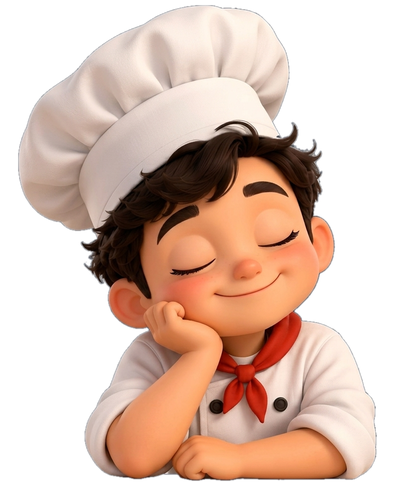
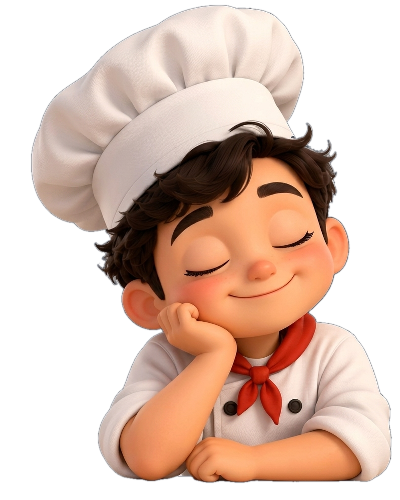
fix: make character animation fluid and smooth with 1:1 silhouette registration and damped parallax

Changed region(s): [[0.03, 0.0, 0.99, 0.99], [0.66, 0.42, 0.69, 0.45]]

diff --git a/apps/web/components/ui/peeking-chef.tsx b/apps/web/components/ui/peeking-chef.tsx
@@ -8,48 +8,53 @@ interface PeekingChefProps {
 
 export function PeekingChef({ isPasswordFocused = false }: PeekingChefProps) {
   const containerRef = React.useRef<HTMLDivElement>(null);
-  const [headTilt, setHeadTilt] = React.useState({ rotateX: 0, rotateY: 0, translateX: 0, translateY: 0 });
+  const [offset, setOffset] = React.useState({ x: 0, y: 0 });
 
-  // Smooth mouse movement tracking using requestAnimationFrame
+  // Smooth damped parallax cursor tracking (lerp physics)
   React.useEffect(() => {
-    if (isPasswordFocused) {
-      setHeadTilt({ rotateX: 0, rotateY: 0, translateX: 0, translateY: 0 });
-      return;
-    }
-
-    let rafId: number | null = null;
+    let targetX = 0;
+    let targetY = 0;
+    let currentX = 0;
+    let currentY = 0;
+    let animFrameId: number;
 
     const handleMouseMove = (e: MouseEvent) => {
-      if (rafId) cancelAnimationFrame(rafId);
+      if (isPasswordFocused) return;
+      if (!containerRef.current) return;
+      
+      const rect = containerRef.current.getBoundingClientRect();
+      const chefCenterX = rect.left + rect.width * 0.5;
+      const chefCenterY = rect.top + rect.height * 0.45;
 
-      rafId = requestAnimationFrame(() => {
-        if (!containerRef.current) return;
-        const rect = containerRef.current.getBoundingClientRect();
-        
-        // Approximate face center on screen
-        const faceX = rect.left + rect.width * 0.5;
-        const faceY = rect.top + rect.height * 0.45;
+      const dx = e.clientX - chefCenterX;
+      const dy = e.clientY - chefCenterY;
+      const dist = Math.sqrt(dx * dx + dy * dy) || 1;
 
-        const dx = e.clientX - faceX;
-        const dy = e.clientY - faceY;
-        const dist = Math.sqrt(dx * dx + dy * dy) || 1;
+      // Gentle, subtle organic parallax travel (max 4px)
+      const maxTravel = 4.0;
+      targetX = (dx / dist) * Math.min(maxTravel, dist * 0.015);
+      targetY = (dy / dist) * Math.min(maxTravel * 0.75, dist * 0.012);
+    };
 
-        // Subtle, natural 3D head movement following cursor
-        const maxTilt = 4.0;
-        const tiltX = Math.max(-maxTilt, Math.min(maxTilt, -(dy / window.innerHeight) * 8));
-        const tiltY = Math.max(-maxTilt * 1.3, Math.min(maxTilt * 1.3, (dx / window.innerWidth) * 10));
-        
-        const moveX = Math.max(-4, Math.min(4, (dx / dist) * Math.min(4, dist * 0.015)));
-        const moveY = Math.max(-3, Math.min(3, (dy / dist) * Math.min(3, dist * 0.012)));
-
-        setHeadTilt({ rotateX: tiltX, rotateY: tiltY, translateX: moveX, translateY: moveY });
-      });
+    // 60fps physics loop with gentle deceleration (lerp factor 0.08)
+    const updateMotion = () => {
+      if (!isPasswordFocused) {
+        currentX += (targetX - currentX) * 0.08;
+        currentY += (targetY - currentY) * 0.08;
+        setOffset({
+          x: Math.round(currentX * 100) / 100,
+          y: Math.round(currentY * 100) / 100,
+        });
+      }
+      animFrameId = requestAnimationFrame(updateMotion);
     };
 
     window.addEventListener("mousemove", handleMouseMove, { passive: true });
+    animFrameId = requestAnimationFrame(updateMotion);
+
     return () => {
       window.removeEventListener("mousemove", handleMouseMove);
-      if (rafId) cancelAnimationFrame(rafId);
+      cancelAnimationFrame(animFrameId);
     };
   }, [isPasswordFocused]);
 
@@ -59,14 +64,14 @@ export function PeekingChef({ isPasswordFocused = false }: PeekingChefProps) {
       className="flex flex-col items-center select-none"
       aria-hidden="true"
     >
-      {/* 3D Perspective Stage */}
+      {/* Character Stage with Gentle Breathing and Organic Parallax */}
       <div
-        className="relative w-[280px] sm:w-[320px] aspect-[400/500] transition-all duration-300 ease-out"
+        className="relative w-[280px] sm:w-[320px] aspect-[400/500] will-change-transform"
         style={{
-          perspective: "1000px",
           transform: isPasswordFocused
-            ? "translateY(2px) scale(0.99)"
-            : `perspective(1000px) rotateX(${headTilt.rotateX}deg) rotateY(${headTilt.rotateY}deg) translate3d(${headTilt.translateX}px, ${headTilt.translateY}px, 0)`,
+            ? "translate3d(0, 0, 0)"
+            : `translate3d(${offset.x}px, ${offset.y}px, 0)`,
+          transition: isPasswordFocused ? "transform 0.4s ease-out" : "none",
         }}
       >
         {/* Soft Ambient Counter Drop Shadow */}
@@ -76,10 +81,9 @@ export function PeekingChef({ isPasswordFocused = false }: PeekingChefProps) {
         {/* STATE 1: SAME CHARACTER — EYES OPEN                      */}
         {/* ======================================================== */}
         <div
-          className="absolute inset-0 transition-all duration-300 ease-out"
+          className="absolute inset-0 transition-opacity duration-300 ease-in-out"
           style={{
             opacity: isPasswordFocused ? 0 : 1,
-            transform: isPasswordFocused ? "scale(0.98)" : "scale(1)",
             pointerEvents: isPasswordFocused ? "none" : "auto",
           }}
         >
@@ -97,10 +101,9 @@ export function PeekingChef({ isPasswordFocused = false }: PeekingChefProps) {
         {/* STATE 2: SAME CHARACTER — EYES CLOSED (PASSWORD MODE)    */}
         {/* ======================================================== */}
         <div
-          className="absolute inset-0 transition-all duration-300 ease-out"
+          className="absolute inset-0 transition-opacity duration-300 ease-in-out"
           style={{
             opacity: isPasswordFocused ? 1 : 0,
-            transform: isPasswordFocused ? "scale(1)" : "scale(0.98)",
             pointerEvents: isPasswordFocused ? "auto" : "none",
           }}
         >
